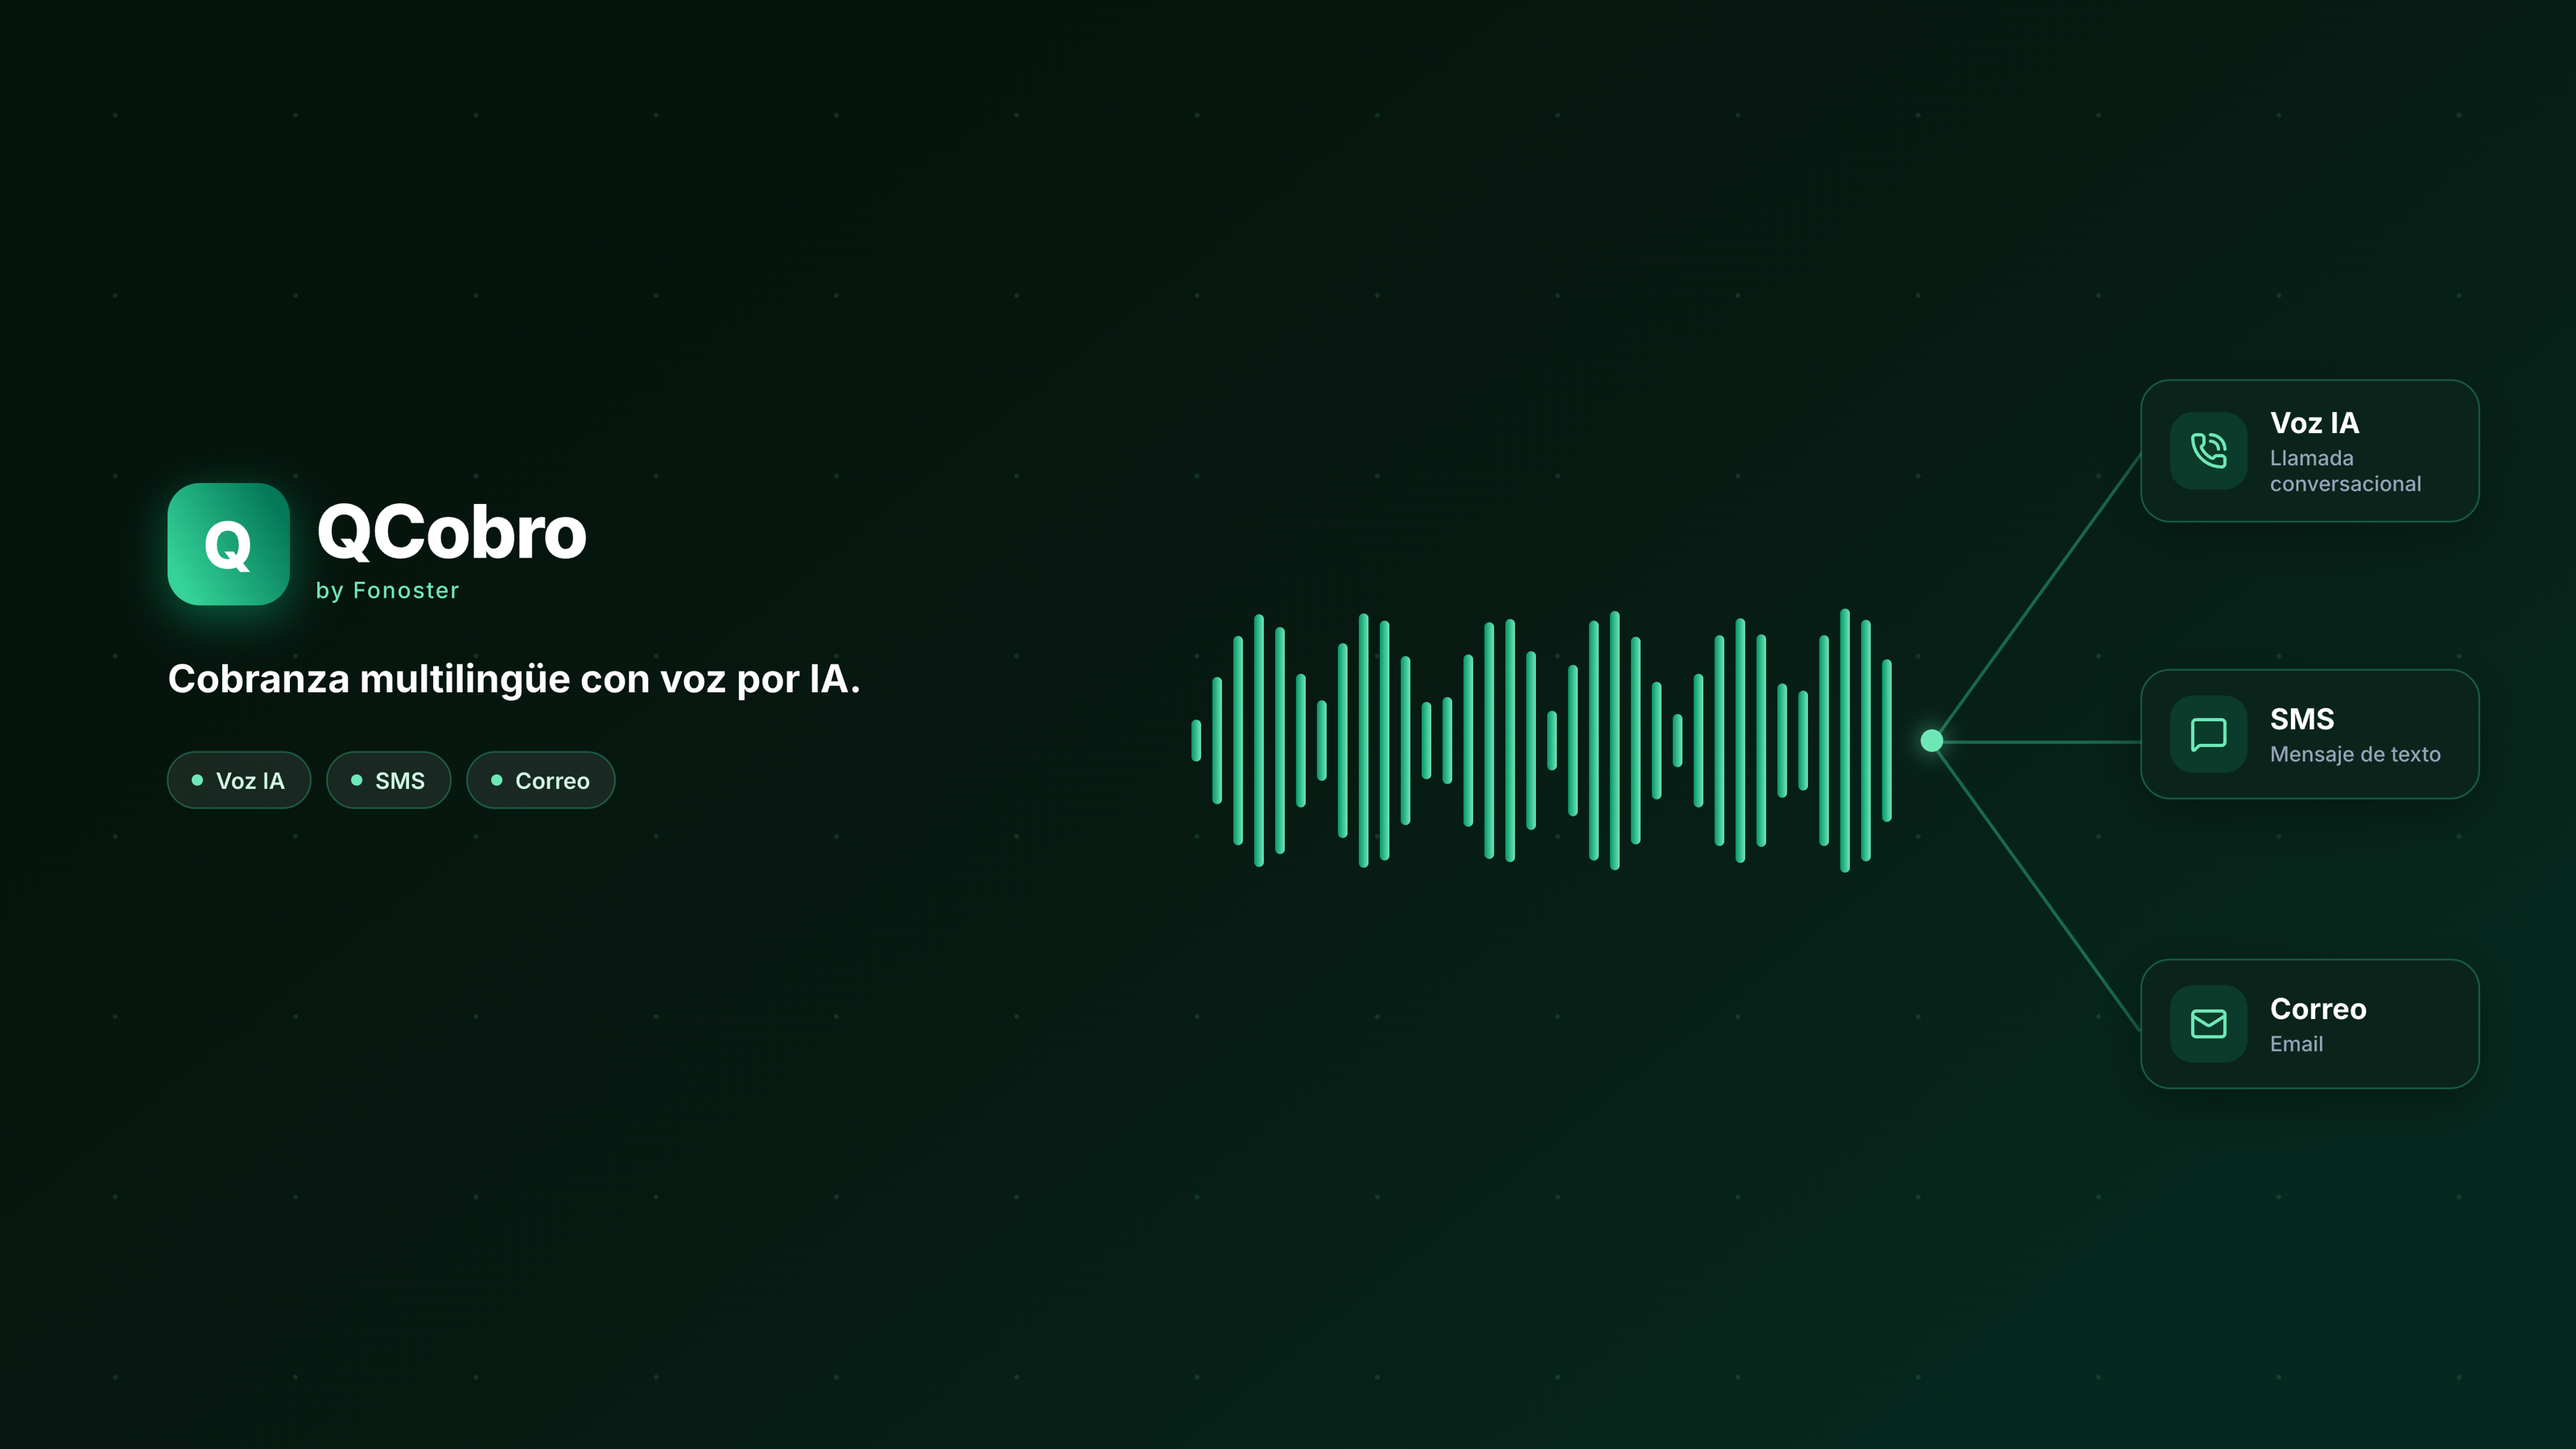
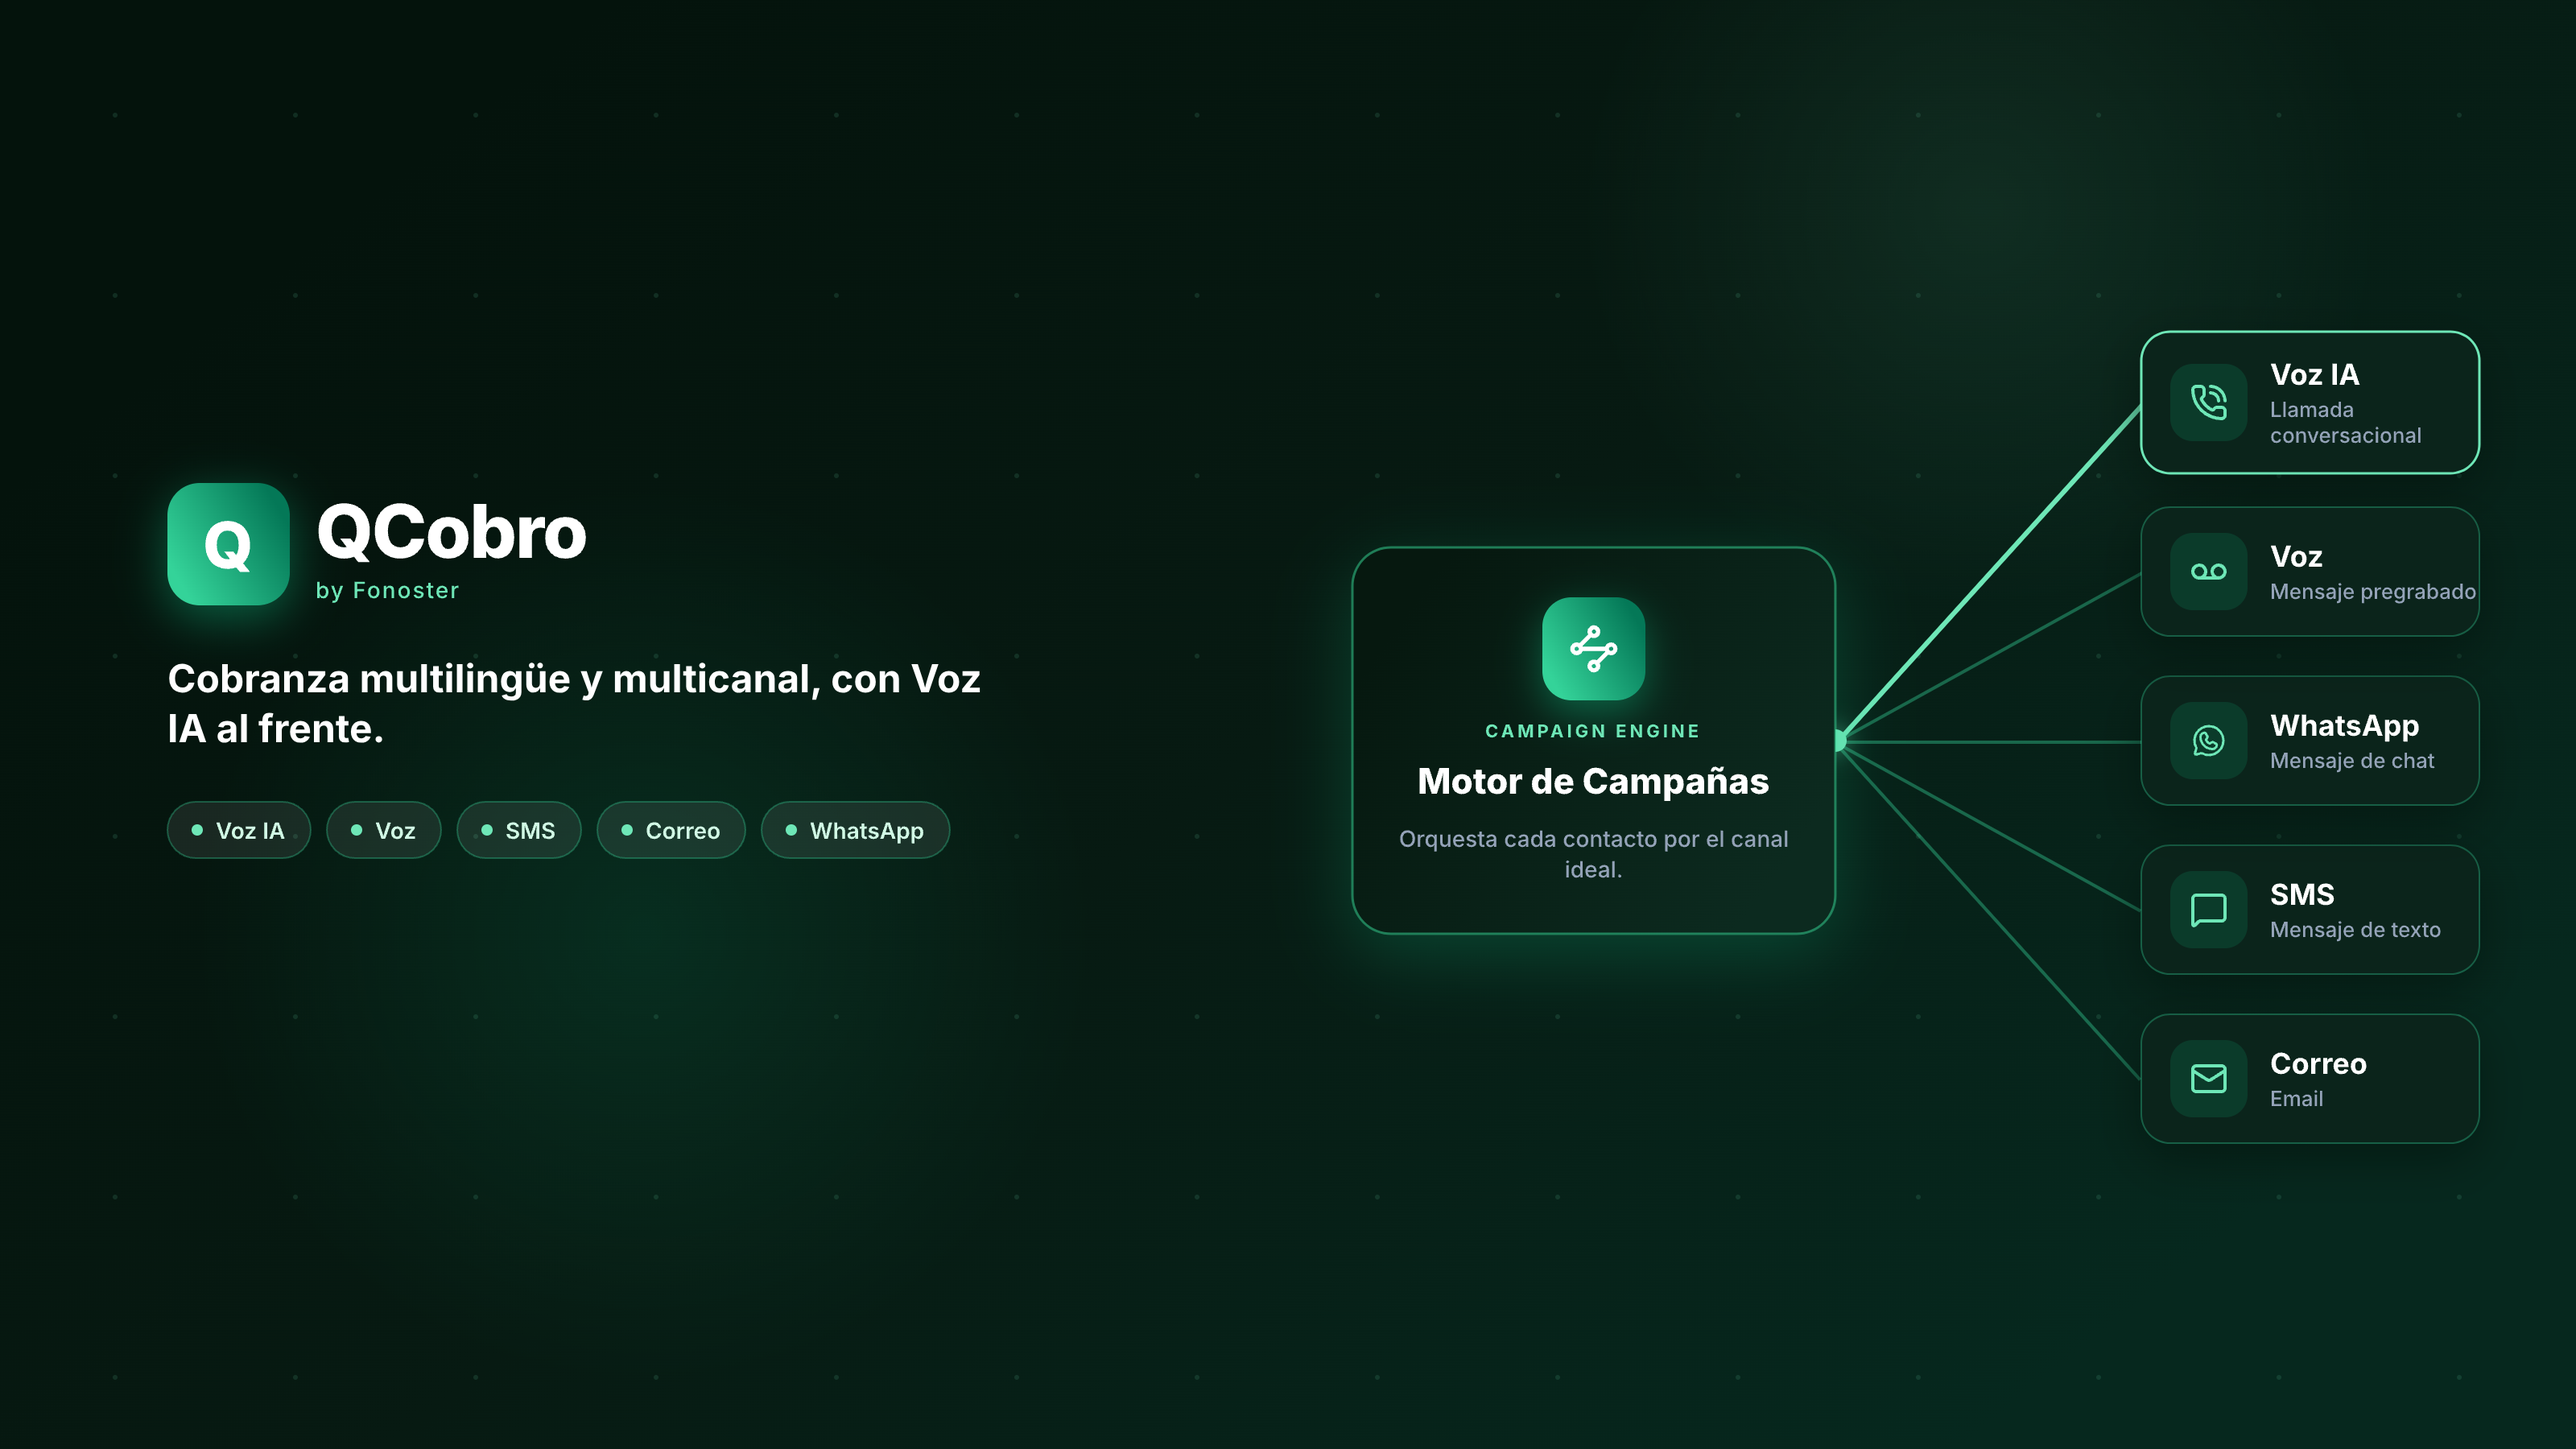
docs(site): refresh home hero asset, fix MCP config guidance (#78)
The home hero illustration was redesigned in Pencil (motor de campañas hub
fanning out to five channels, replacing the old three-channel voice
waveform); re-export it, update its build doc and the homepage alt text to
match, and tone down two glow overlays that had grown large/bright enough
to read as a dominant circular highlight over the intended diagonal
background.

Also stop recommending `npx @qcobro/ctl mcp:configure` for one-step Claude
Desktop setup — point readers at installing the CLI first, then running
`qcobro mcp:configure` directly (or the existing manual config as a
fallback).

diff --git a/docs-site/images/home/hero.md b/docs-site/images/home/hero.md
@@ -5,7 +5,7 @@
 **Type:** illustration · brand hero (artistic / technical)
 **Audience:** Customer — behavior/brand only, no internals (see `docs-site/CLAUDE.md`)
 **Preset:** 16:9 `1600 × 900` (exported at 2× → `3200 × 1800`)
-**Pencil node id:** `r0KBNV` (file: repo-root `pencil.pen`)
+**Pencil node id:** `r0KBNV` (file: repo-root `pencil.pen`, named "Asset · Home Hero (artistic)")
 
 > Regenerate from this doc — do not edit the PNG. Change the scene in `pencil.pen`, then
 > re-export node `r0KBNV` (see **Re-export** below).
@@ -13,29 +13,43 @@
 ## One message
 
 A welcoming, premium brand hero with a technical feel: on a dark emerald canvas, the QCobro
-brand lockup and tagline ("Cobranza multilingüe con voz por IA.") sit beside a glowing **voice
-waveform** that resolves through a hub into the three outreach **channels** — Voz IA, SMS,
-Correo. It says, at a glance: QCobro is multilingual AI-voice collections across channels.
+brand lockup and tagline ("Cobranza multilingüe y multicanal, con Voz IA al frente.") sit
+beside a **motor de campañas** hub that fans out into the five outreach **channels** — Voz IA,
+Voz (pregrabada), WhatsApp, SMS, Correo. It says, at a glance: QCobro orchestrates multilingual
+AI-voice collections across every channel, not just voice.
 
 ## Scene spec
 
 ```
-Background: dark emerald → ink linear gradient + two soft radial glows + a faint dot grid.
+Background: dark emerald → ink linear gradient (55°, diagonal) + two subtle radial glow
+            accents + a faint dot grid.
 Left: Q mark medallion (emerald gradient, glow) + "QCobro / by Fonoster" wordmark,
-      tagline "Cobranza multilingüe con voz por IA.", and pills "Voz IA · SMS · Correo".
-Right: a 34-bar voice waveform (emerald gradient bars) → a glowing hub node → three
-       glass channel cards (phone-call · Voz IA, message-square · SMS, mail · Correo),
-       linked by thin emerald connectors.
+      tagline "Cobranza multilingüe y multicanal, con Voz IA al frente.", and pills
+      "Voz IA · Voz · SMS · Correo · WhatsApp".
+Right: a "Motor de Campañas" hub card (badge + eyebrow "CAMPAIGN ENGINE" + title +
+       one-line sub) → five glass channel cards (phone-call · Voz IA, voicemail · Voz,
+       whatsapp-logo · WhatsApp, message-square · SMS, mail · Correo), linked by thin
+       emerald connectors fanning out from the hub.
 ```
 
 Colors are drawn from the brand greens (`#34D399` `#10B981` `#047857` `#6EE7B7`,
 ink `#04130C`/`#091324`). This asset is **bespoke** (not Diagram Kit), but stays on-brand;
 keep it in sync with the palette if the brand changes.
 
+**Glow accents (`Glow` / `Glow2` ellipses):** kept intentionally subtle — `opacity: 0.4`,
+`560×560` and `500×500` respectively. They previously ran brighter and larger
+(`opacity: 0.9`/`1`, `760×760`/`680×680`), which visually read as a dominant circular
+highlight and fought the diagonal linear background. If re-tuning, keep opacity ≤ 0.4 and
+size well under half the frame height so the linear gradient stays the dominant read.
+
 ## Notes / gotchas
 
 - The exporter (`export_nodes`) choked on a `mesh_gradient` background; the frame fill is a
   **linear gradient** instead. Avoid `mesh_gradient` here if you want reliable re-export.
+- The composition changed from an earlier version (34-bar voice waveform → hub → three
+  channels) to the current motor-de-campañas hub → five channels. If you're comparing against
+  an old screenshot/memory of this asset and it looks different, that's expected — the scene
+  itself was redesigned, not just re-exported.
 
 ## Re-export
 
